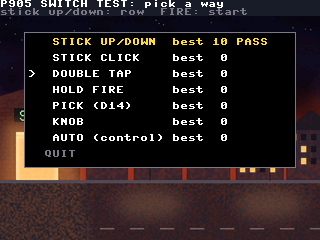
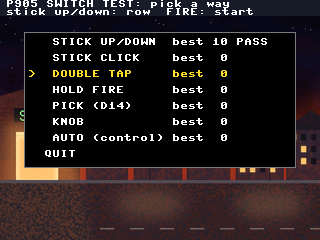
P905 review, C: the bar's lines white within the base bar's 6 px, each hint names its act at the ring, the menu's cursor row yellow, and the pictures again

diff --git a/probe905_switch.py b/probe905_switch.py
@@ -161,7 +161,7 @@ class Way:
     actions, boot, click) reads one frame and leaves its answer in steps (along the list of the figures: + toward the
     child, - toward the fireman) and acts (whether FIRE acts), so a frame makes no tuple. actions is the frame's
     engine.actions.Actions, boot and click the two Seen FIRE buttons. name: the log's word; label: the screen's; hint:
-    one line of the top bar, 40 characters at most; wraps: whether a step past the list's end comes round (false for
+    one line of the top bar, 38 characters at most, that names the act as "X at ring"; wraps: whether a step past the list's end comes round (false for
     the stick and the knob, whose list stops at its ends); control: true for the way that is no test."""
 
     name = label = hint = ""
@@ -180,7 +180,7 @@ class Way:
 class StickWay(Way):
     """A new lean of the stick's y picks by direction: up the fireman, down the child."""
 
-    name, label, hint, wraps = "stick", "STICK UP/DOWN", "up: FIREMAN, down: CHILD  act: FIRE", False
+    name, label, hint, wraps = "stick", "STICK UP/DOWN", "up: FIREMAN, down: CHILD  FIRE at ring", False
 
     def __init__(self):
         Way.__init__(self)
@@ -197,7 +197,7 @@ class StickWay(Way):
 class ClickWay(Way):
     """A push of the click (the stick's push-button) takes the other figure, and a push of BOOT acts."""
 
-    name, label, hint = "click", "STICK CLICK", "click: switch  act: BOOT"
+    name, label, hint = "click", "STICK CLICK", "click: switch  BOOT at ring"
 
     def read(self, now_ms, actions, boot, click):
         self.steps, self.acts = 1 if click.pushed else 0, boot.pushed
@@ -209,7 +209,7 @@ class DoubleWay(Way):
     double tap the count starts again, so a third push is a first one. A push past DOUBLE_MS is a new first one, and
     the push before it acts in that frame."""
 
-    name, label, hint = "double", "DOUBLE TAP", "FIRE twice: switch  FIRE once: act"
+    name, label, hint = "double", "DOUBLE TAP", "FIRE twice: switch  FIRE once at ring"
 
     def __init__(self):
         Way.__init__(self)
@@ -239,7 +239,7 @@ class HoldWay(Way):
     the box saw no level acts at once. The length is the frame's clock, so a release that a frame sees at HOLD_MS or
     later is a hold."""
 
-    name, label, hint = "hold", "HOLD FIRE", "hold FIRE: switch  tap FIRE: act"
+    name, label, hint = "hold", "HOLD FIRE", "hold FIRE: switch  tap FIRE at ring"
 
     def __init__(self):
         Way.__init__(self)
@@ -271,7 +271,7 @@ class PickWay(Way):
     """A push of PICK (the board's D14 button) takes the other figure, and FIRE acts. Never a hold: a hold of about 5 s
     powered an older board off (bench.md)."""
 
-    name, label, hint = "pick", "PICK (D14)", "press PICK, never hold  act: FIRE"
+    name, label, hint = "pick", "PICK (D14)", "press PICK, never hold  FIRE at ring"
 
     def read(self, now_ms, actions, boot, click):
         self.steps, self.acts = 1 if actions.pick.pressed else 0, actions.fire.pressed
@@ -281,7 +281,7 @@ class KnobWay(Way):
     """A turn of the knob picks by direction: its positive detents step toward the child. Which way that is on the box
     follows the encoder's sign, so the hint names no direction."""
 
-    name, label, hint, wraps = "knob", "KNOB", "knob: one way FIREMAN, other way CHILD", False
+    name, label, hint, wraps = "knob", "KNOB", "turn: FIREMAN or CHILD  FIRE at ring", False
 
     def read(self, now_ms, actions, boot, click):
         self.steps, self.acts = actions.turn, actions.fire.pressed
@@ -290,7 +290,7 @@ class KnobWay(Way):
 class AutoWay(Way):
     """The control: the game makes the wanted figure active at each task's start (Round), so no input switches."""
 
-    name, label, hint, control = "auto", "AUTO (control)", "the game switches for you  act: FIRE", True
+    name, label, hint, control = "auto", "AUTO (control)", "game switches for you  FIRE at ring", True
 
 
 WAYS = (StickWay, ClickWay, DoubleWay, HoldWay, PickWay, KnobWay, AutoWay)  # the menu's order
@@ -583,6 +583,7 @@ def game_class(boot, click):
     big_names = ("FIREMAN", "CHILD")  # the task's wanted figure, big
     menu_rect = (24, 32, 272, 8 + 16 * (QUIT + 1))  # the menu's panel, kept like the score bar
     ready_y, task_y, arrow_y = 90, lane - 40, lane - 8  # READY and WRONG, the task's name, the arrow's tip row - 3
+    edge = 6  # px: the bar's margin at both ends, as the base bar's (gfx.Game.draw_hud)
 
     def drawn(cv, name, x, y):
         if not pictures.draw(cv, name, x, y):
@@ -662,14 +663,14 @@ def game_class(boot, click):
             cv.fill(x, y, w, h, gfx.BLACK)
             cv.box(x, y, w, h, gfx.GREY)
             m = self.menu
-            for i in range(QUIT):
+            for i in range(QUIT):  # the cursor's row yellow, every other white; the mark is the row's word
                 way = WAYS[i]
                 cv.text("%s %-14s best %2d %s" % ("> " if i == m.cursor else "  ", way.label, m.best[i],
                                                   ("control" if way.control else "PASS") if m.marked[i] else ""),
-                        x + 4, y + 6 + 16 * i, gfx.YELLOW if m.marked[i] else gfx.WHITE)
+                        x + 4, y + 6 + 16 * i, gfx.YELLOW if i == m.cursor else gfx.WHITE)
             quit_row = "QUIT: FIRE again" if m.armed else "QUIT"
             cv.text(("> " if m.cursor == QUIT else "  ") + quit_row, x + 4, y + 6 + 16 * QUIT,
-                    gfx.RED if m.armed else gfx.GREY)
+                    gfx.RED if m.armed else gfx.YELLOW if m.cursor == QUIT else gfx.WHITE)
 
         def hud(self, cv):
             """The top bar, two lines of 8 px, drawn again only when the screen, the way, the streak or the wrong
@@ -681,17 +682,19 @@ def game_class(boot, click):
                 cv.keep((self.name, 1, self.row, r.tally.streak, r.tally.wrong), gfx.HUD_RECT, self.draw_hud)
 
         def draw_hud(self, cv):
+            """Both lines start at x 6 and end by x 314, the base bar's edges (gfx.Game.draw_hud), and the second is
+            white: grey on DARK reads under 4 to 1."""
             cv.fill(0, 0, gfx.WIDTH, gfx.HUD_RECT[3], gfx.DARK)
             r = self.round
             if r is None:
-                cv.text("P905 SWITCH TEST: pick a way", 0, 0, gfx.WHITE)
-                cv.text("stick up/down: row  FIRE: start", 0, 8, gfx.GREY)
+                cv.text("P905 SWITCH TEST: pick a way", edge, 0, gfx.WHITE)
+                cv.text("stick up/down: row  FIRE: start", edge, 8, gfx.WHITE)
                 return
-            cv.text(r.way.label, 0, 0, gfx.WHITE)
-            cv.text("streak %d/%d" % (r.tally.streak, STREAK_TO_PASS), 120, 0, gfx.YELLOW)
+            cv.text(r.way.label, edge, 0, gfx.WHITE)
+            cv.text("streak %d/%d" % (r.tally.streak, STREAK_TO_PASS), 128, 0, gfx.YELLOW)
             wrong = "wrong %d" % r.tally.wrong
-            cv.text(wrong, gfx.WIDTH - 8 * len(wrong), 0, gfx.RED if r.tally.wrong else gfx.GREY)
-            cv.text(r.way.hint, 0, 8, gfx.GREY)
+            cv.text(wrong, gfx.WIDTH - edge - 8 * len(wrong), 0, gfx.RED if r.tally.wrong else gfx.GREY)
+            cv.text(r.way.hint, edge, 8, gfx.WHITE)
 
         def draw_over(self, cv):
             """The result card: the way, the end, the streak and the best streak, kept like the bar. Its timing is the

diff --git a/tests/test_probe905.py b/tests/test_probe905.py
@@ -152,13 +152,13 @@ class WaysTest(unittest.TestCase):
         self.assertEqual([False, True, True, True, True, False, True], [w.wraps for w in probe.WAYS])
         self.assertEqual([False] * 6 + [True], [w.control for w in probe.WAYS])
 
-    def test_each_hint_is_one_line_of_the_bar_and_the_picks_says_never_hold(self):
+    def test_each_hint_fits_the_bar_and_names_its_act_and_the_picks_says_never_hold(self):
         for w in probe.WAYS:
             with self.subTest(way=w.name):
-                self.assertLessEqual(len(w.hint), 40)
-                self.assertTrue(w.hint)
+                self.assertLessEqual(len(w.hint), 38)  # x 6 to 314: the base bar's edges
+                self.assertTrue(w.hint.endswith(" at ring"), w.hint)  # each names its act
         self.assertIn("never hold", way("pick").hint)
-        self.assertIn("one way FIREMAN, other way CHILD", way("knob").hint)
+        self.assertIn("FIREMAN or CHILD", way("knob").hint)  # the encoder's sign: no direction
 
     def test_the_stick_steps_up_minus_1_and_down_plus_1_once_a_lean_and_fire_acts(self):
         w = way("stick")
@@ -872,8 +872,47 @@ def card(box):
     return ops[[i for i, op in enumerate(ops) if op[:5] == (x, y, x + w, y + h, 0)][-1]:]
 
 
+def texts(box):
+    """The frame's text and big words, kept ones too, each as (words, x, y, colour)."""
+    return [(op[5], op[7], op[8], op[6]) for op in box.out.cv.ops if op[4] == 3]
+
+
+def text(box, start):
+    """The frame's one text that starts with start, as (words, x, y, colour)."""
+    found = [t for t in texts(box) if t[0].startswith(start)]
+    assert len(found) == 1, (start, texts(box))
+    return found[0]
+
+
 class GameTest(unittest.TestCase):
     """The probe's game through app.App, with no pack: it never skips."""
+
+    def test_the_bar_keeps_the_base_bars_6_px_at_both_edges_and_both_its_lines_are_white(self):
+        box = Box(self)
+        self.assertEqual([("P905 SWITCH TEST: pick a way", 6, 0, gfx.WHITE), ("stick up/down: row  FIRE: start", 6, 8,
+                                                                          gfx.WHITE)],
+                         [t for t in texts(box) if t[2] < 16])
+        box.start(0)
+        box.frame(fire=True)  # wrong 1
+        way = probe.WAYS[0]
+        self.assertEqual((way.label, 6, 0, gfx.WHITE), text(box, way.label))
+        self.assertEqual((way.hint, 6, 8, gfx.WHITE), text(box, way.hint))
+        wrong = text(box, "wrong ")
+        self.assertEqual(314, wrong[1] + 8 * len(wrong[0]))
+
+    def test_the_menus_cursor_row_is_yellow_every_other_white_and_quit_red_once_armed(self):
+        box = Box(self)
+        box.start(5)
+        for k in range(10):
+            box.frame(turn=1 if k % 2 == 0 else -1).to_ring().frame(fire=True)
+        box.frame(ms=900, fire=True).frame().frame(y=-70).frame()  # the menu, its reset, the cursor up to PICK
+        rows = [t for t in texts(box) if t[0].startswith(("> ", "  "))]
+        self.assertEqual([gfx.WHITE] * 4 + [gfx.YELLOW] + [gfx.WHITE] * 3, [t[3] for t in rows])
+        self.assertIn("PASS", rows[5][0])  # the knob's mark, on a white row
+        for _ in range(3):
+            box.frame(y=70).frame()
+        box.frame(fire=True)
+        self.assertEqual(("> QUIT: FIRE again", gfx.RED), (text(box, "> QUIT")[0], text(box, "> QUIT")[3]))
 
     def test_the_game_is_switchtest_on_rescues_set_and_starts_in_play(self):
         box = Box(self)
